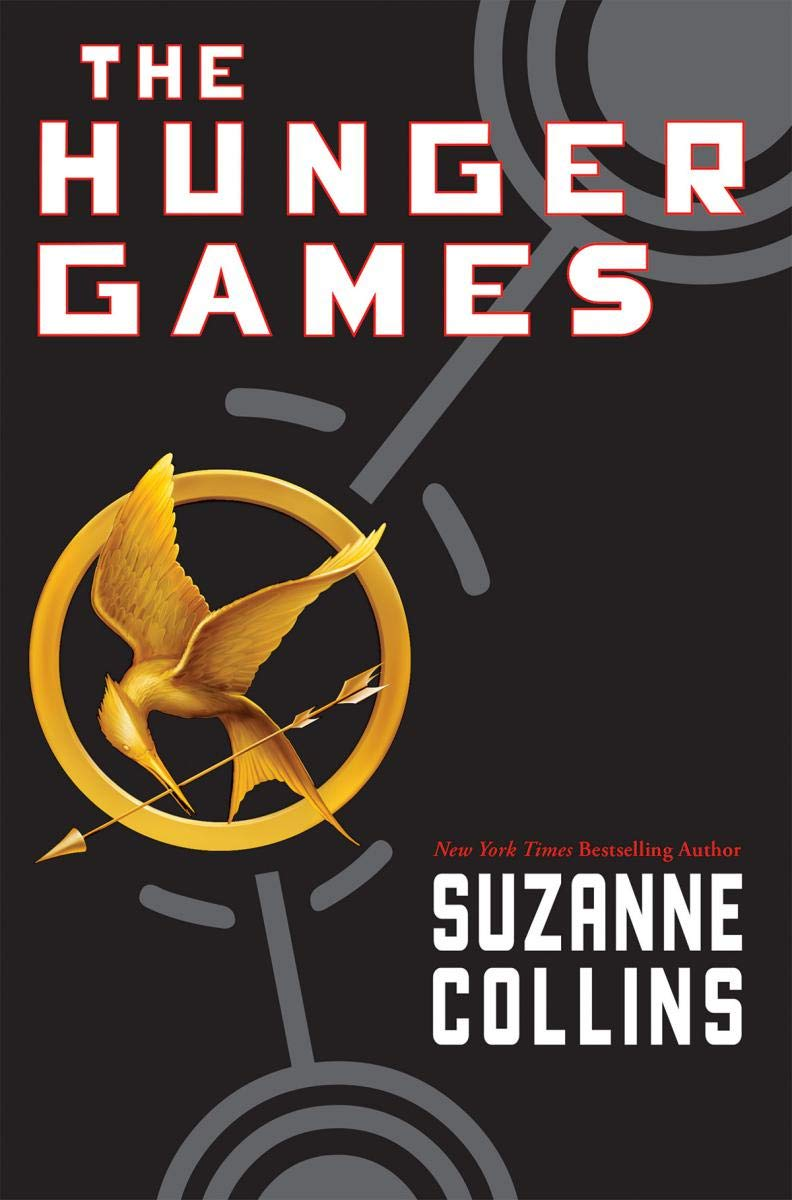
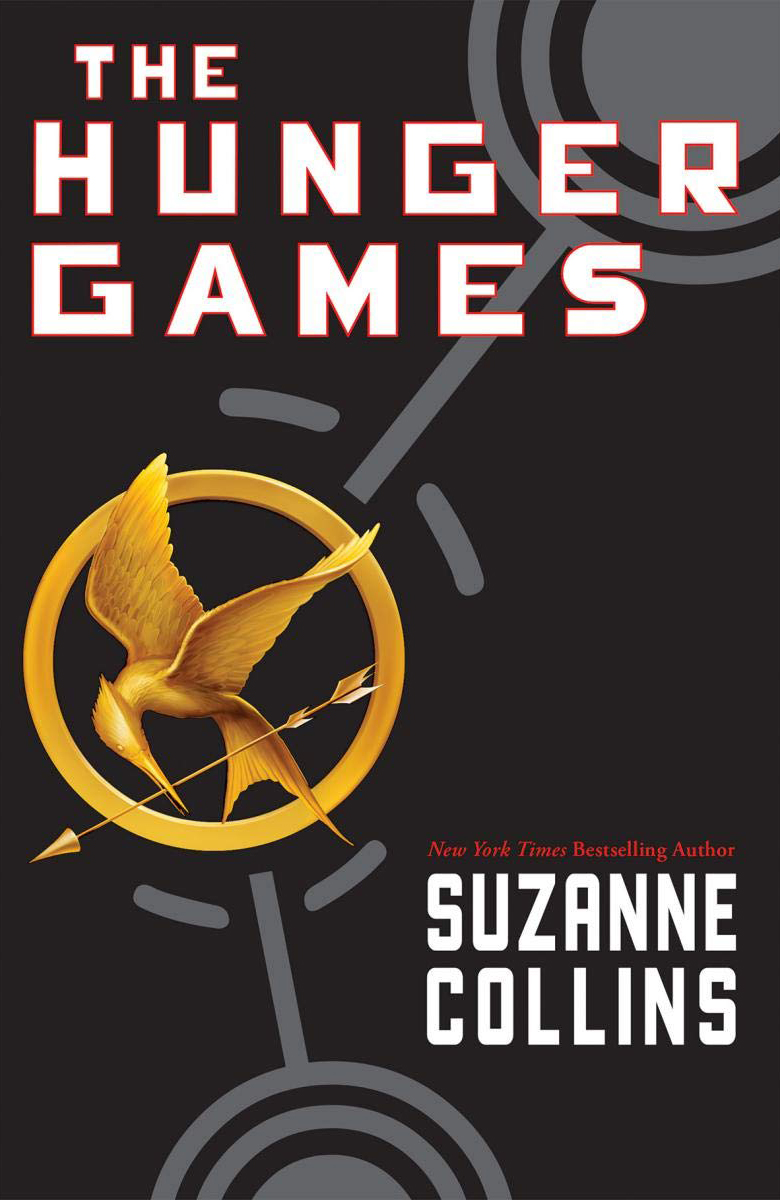
book size w and h

diff --git a/book_2.html b/book_2.html
@@ -77,7 +77,7 @@
               <p class="page__content-blockquote-text">. . . I clasp the flask between my hands even though the warmth from the tea has long since leached into the frozen air. My muscles are clenched tight against the cold. If a pack of wild dogs were to appear at this moment, the odds of scaling a tree before they attacked are not in my favor. I should get up, move around, and work the stiffness from my limbs. But instead I sit, as motionless as the rock beneath me, while the dawn begins to lighten the woods. I can’t fight the sun. I can only watch helplessly as it drags me into a day that I’ve been dreading for months.</p>
               <p class="page__content-blockquote-text">. . . By noon they will all be at my new house in the Victor’s Village. The reporters, the camera crews, even Effie Trinket, my old escort, will have made their way to District 12 from the Capitol. I wonder if Effie will still be wearing that silly pink wig, or if she’ll be sporting some other unnatural color especially for the Victory Tour. There will be others </p>
             </div>
-            <div class="page__number">3</div>
+            <div class="page__number">6</div>
           </div>
         </label>
           

diff --git a/css/book_.css b/css/book_.css
@@ -35,8 +35,8 @@ body {
 }
 
 .cover {
-  width: calc(var(--baseline) * 60);
-  height: calc(var(--baseline) * 42.6);
+  width: 720px;
+  height: calc(360px / 0.65);
   box-shadow: 0 0 100px rgba(255, 255, 255, 0.3);
   overflow: hidden;
 }
@@ -178,6 +178,7 @@ body {
   font-size: calc(var(--base-size) * 0.67);
   font-style: italic;
   text-align: justify;
+  user-select: none;
 }
 .book__page .page__content-blockquote-reference {
   font-family: var(--title);

diff --git a/css/books.css b/css/books.css
@@ -206,6 +206,7 @@ body{
         position: absolute;
         margin: auto;
         width: 35vw;
+        height: calc(35vw / 0.65);
         /* offset-x | offset-y | blur-radius | spread-radius | color */
         box-shadow: 3px 3px 15px 1px rgba(255, 255, 255, 0.3);
     }
